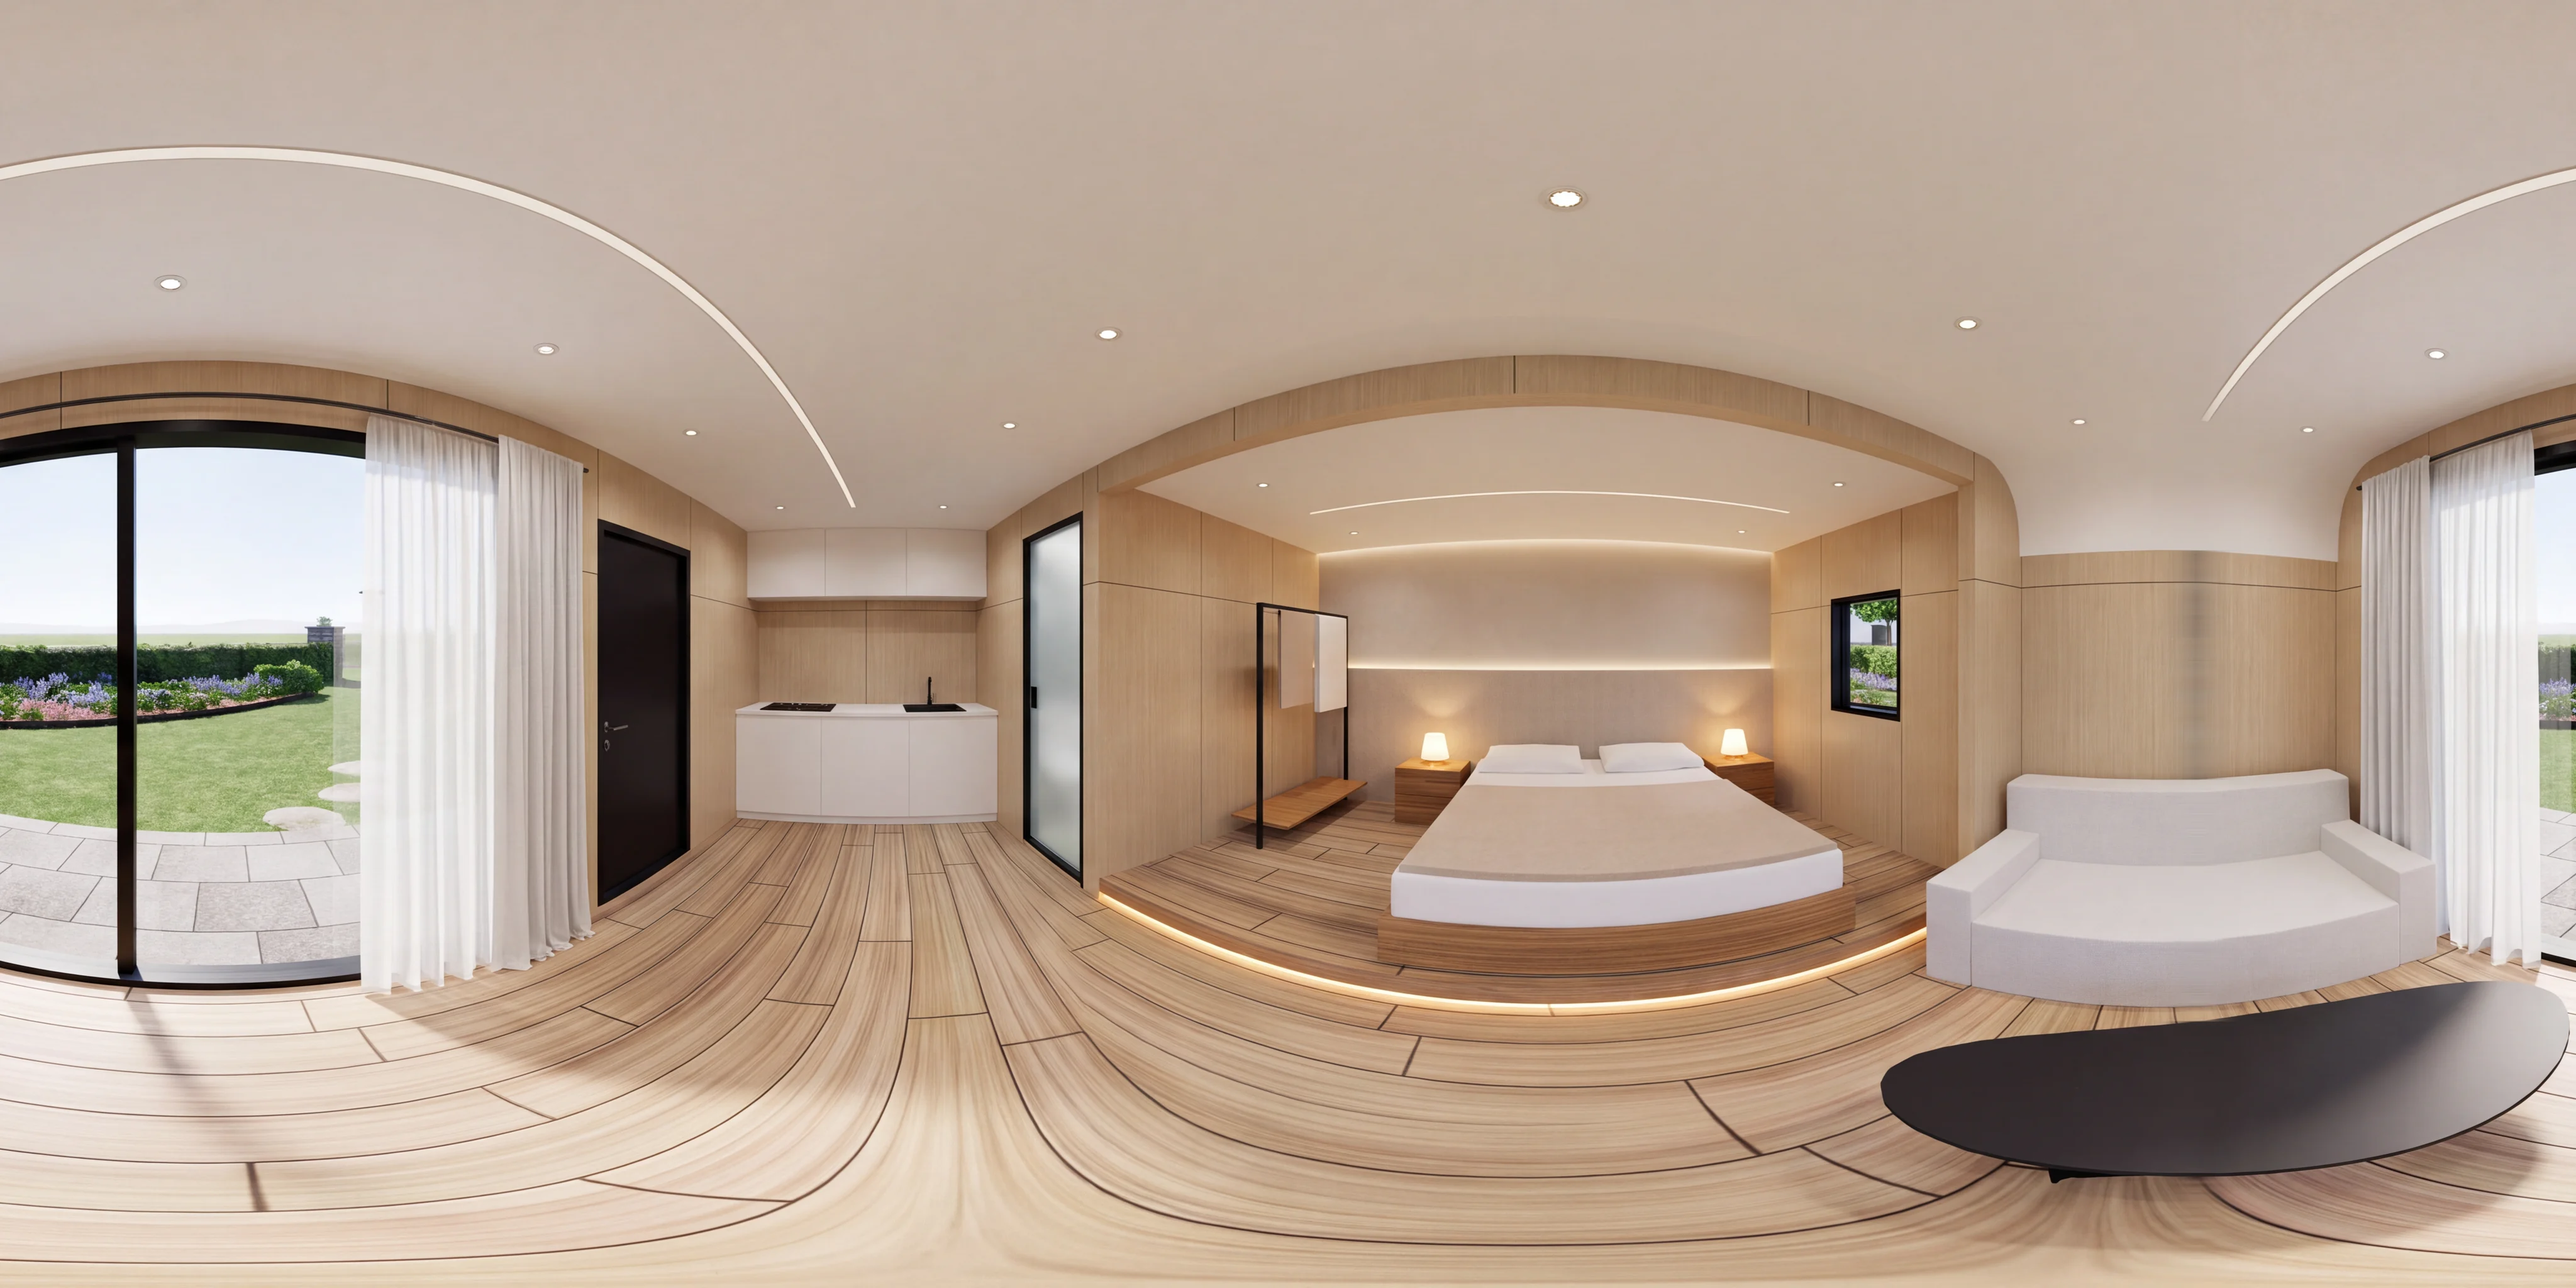
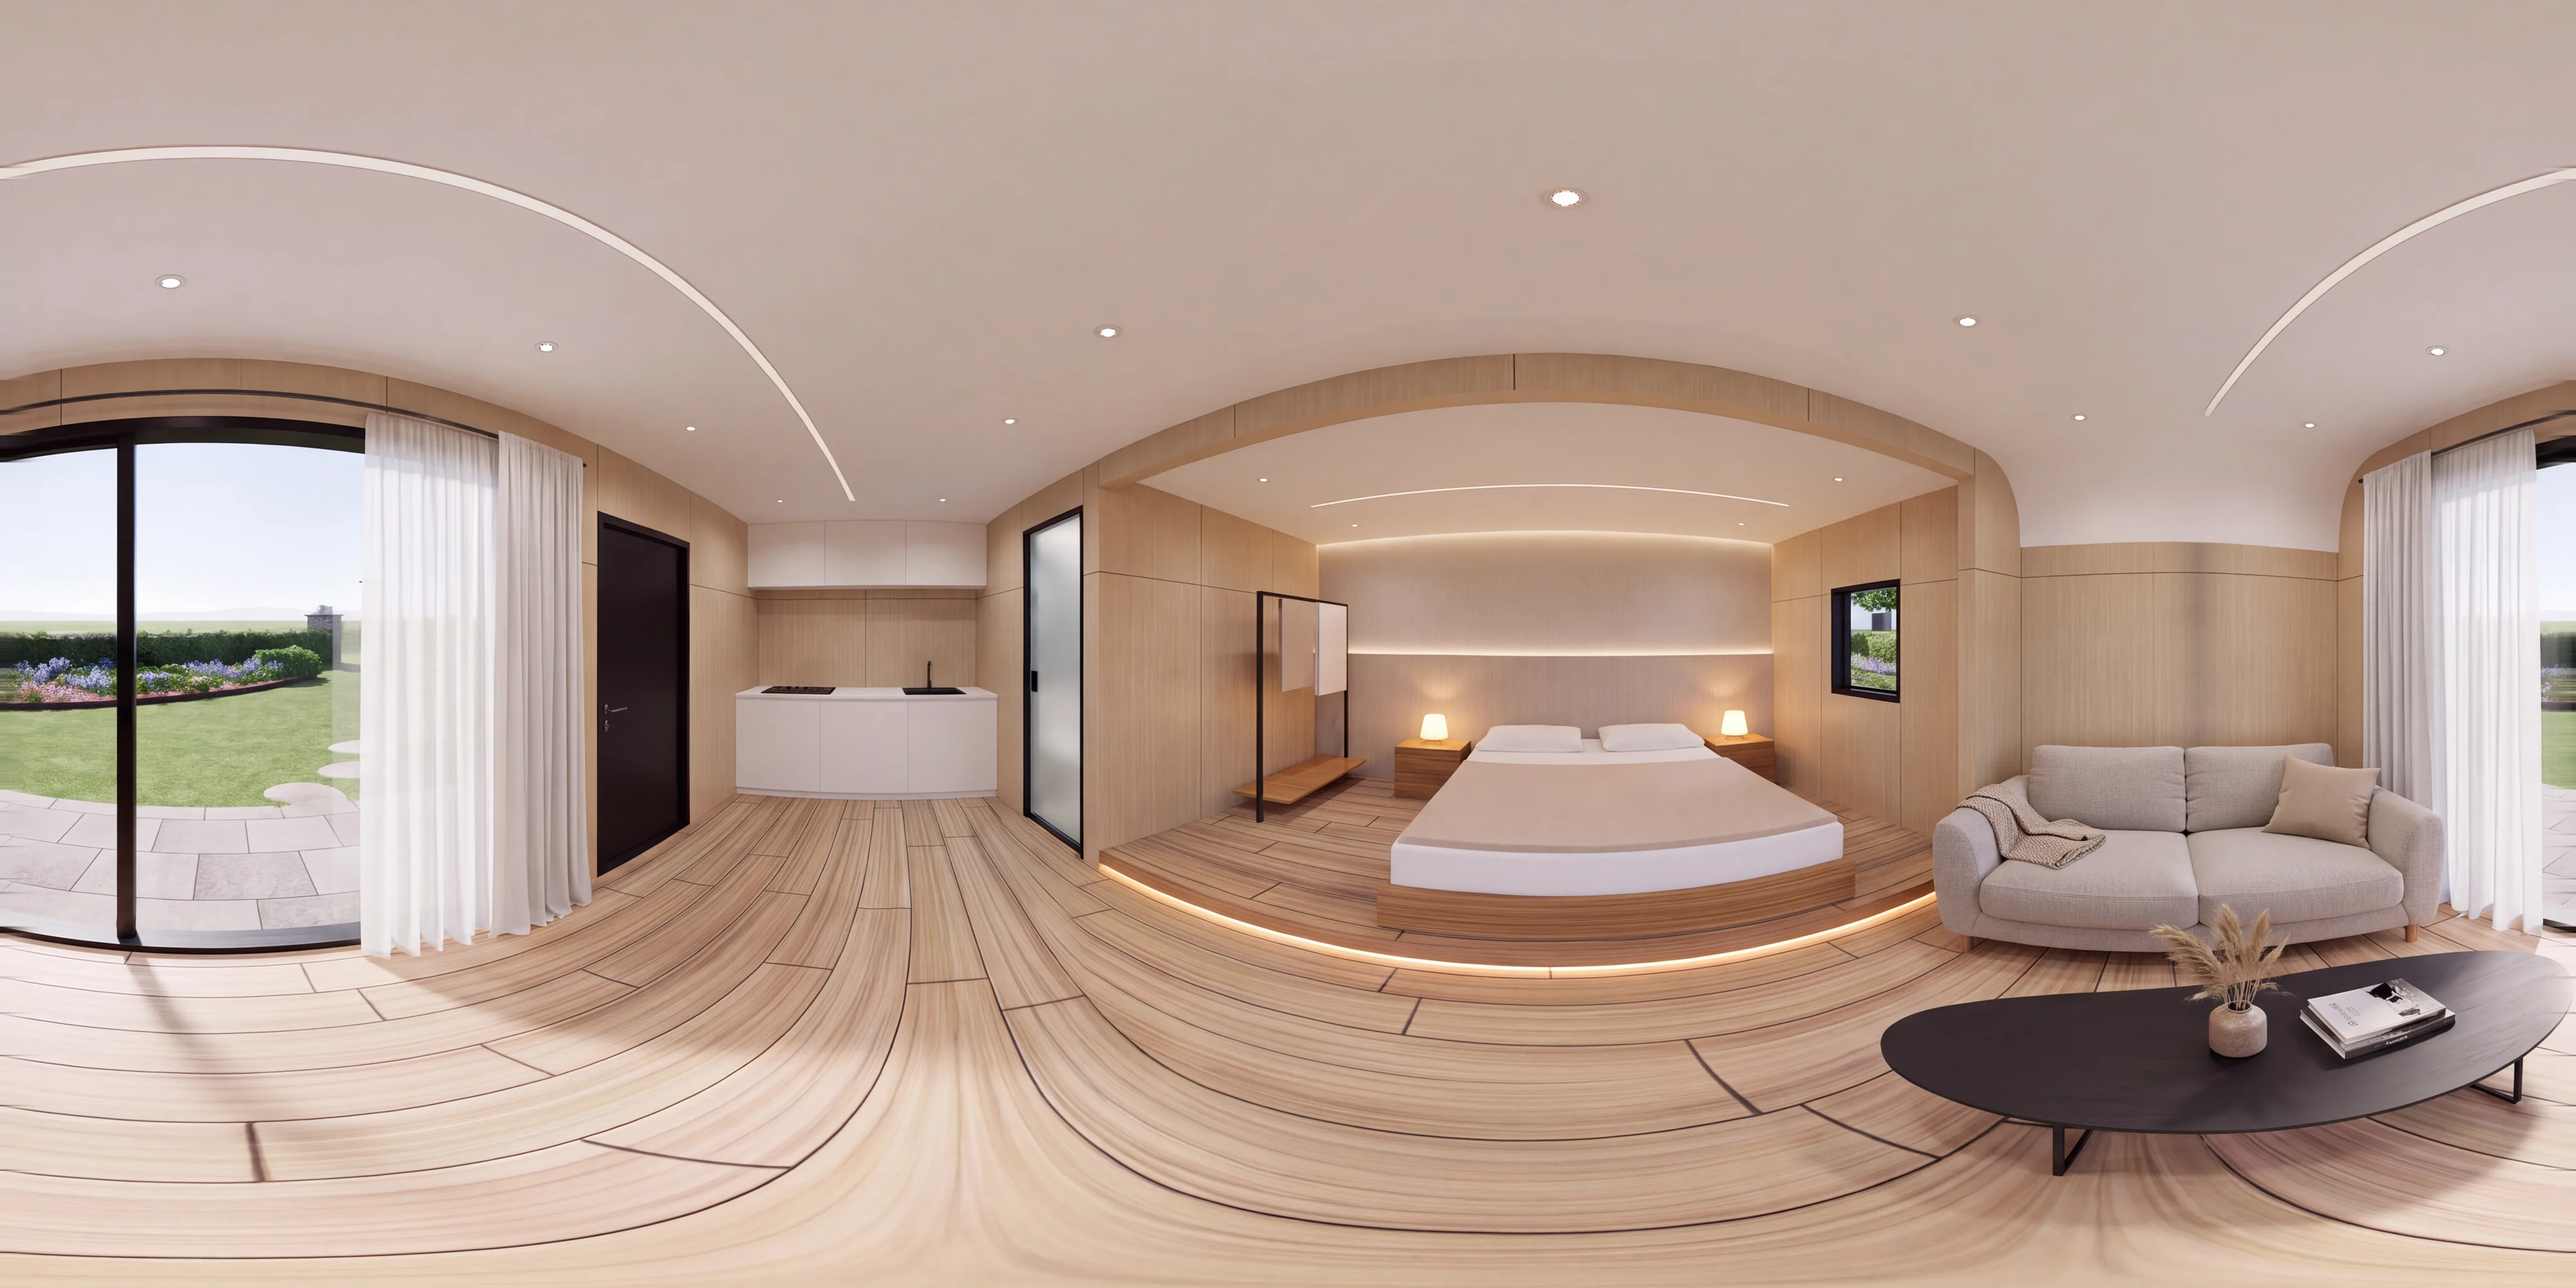
T6 living: canapea și măsuță reale în locul celor pătrățoase; publicarea păstrează pagina AgroKart
Claude-Session: https://claude.ai/code/session_01KQBPBSm1ebqTvHwEmS7Cs6

diff --git a/CLAUDE.md b/CLAUDE.md
@@ -345,3 +345,14 @@ partea a șasea. Credite folosite: ≈ 57.100 (din care ≈ 10.900 pe o încerca
 4. ~~V1 pe calculator~~ (V1 nu mai există pe prima pagină).
 5. Site-ul e doar în română. EN și BG din meniu duc la casecapsula.ro/en și casecapsula.ro/bg.
 6. Hosting și domeniu pentru varianta finală.
+
+## Canapeaua din livingul lui T6 (24 nov 2026)
+- **Ce a cerut clientul:** în livingul lui T6 canapeaua (și măsuța) arătau „pătrățos”, ca din cuburi.
+- **Ce s-a făcut:** `site/img/gd/ai/t6_living.webp` a fost retușată cu `gemini-3-pro-image` pornind chiar de la imaginea de pe site
+  (nu de la machetă): s-au schimbat doar canapeaua și măsuța, restul camerei a rămas la loc (potrivire măsurată cu `fix360.py --masoara`:
+  deplasare 0). Nod în flux: `snwvyjhF4BiuVaAIMjc2`. Cost: 2.272 de credite. Copia veche: `versiuni/inainte-canapea-t6/`.
+- **De știut:** și în livingurile E7, M9 și C20 canapelele sunt cam simple; se pot reface la fel, dacă cere clientul (~2.300 credite bucata).
+
+## Pagina de probă AgroKart (alt proiect al clientului, pe aceeași adresă)
+- Stă la https://designdn25-afk.github.io/capsula-media/agrokart/ ; sursa e pe ramura `claude/agrokart-demo` (`agrokart/demo`, făcută cu
+  `agrokart/tools/genereaza.py`). `tools/publica_pages.sh` o pune la loc la fiecare publicare a site-ului cu capsule.
